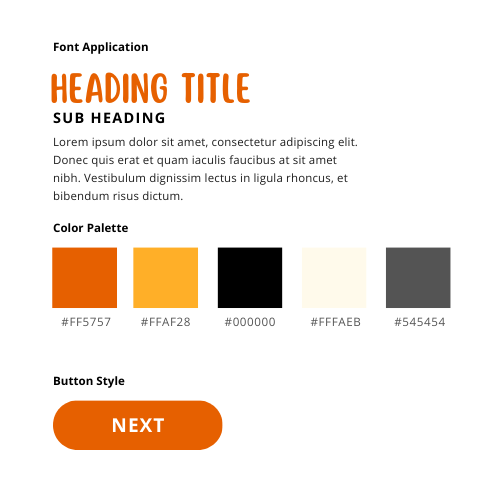
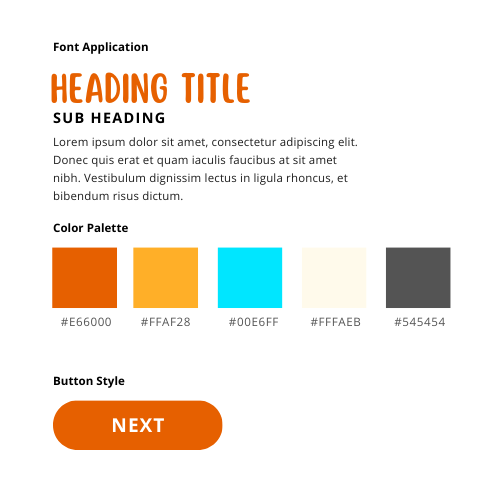
updated users forum and added new color codes picture

Changed region(s): [[0.42, 0.48, 0.57, 0.66], [0.12, 0.63, 0.24, 0.66]]

diff --git a/src/css/login.css b/src/css/login.css
@@ -9,7 +9,7 @@
 .login-h1-container {
     display: flex;
     justify-content: center;
-    gap: 20px;
+    gap: 30px;
     padding-top: 5rem;
 }
 
@@ -37,13 +37,19 @@
 }
 
 .password-input{
-    padding-bottom: 1rem;
-    border-radius: 30px;
+    padding-bottom: .3rem;
+    padding-top: .3rem;
+    padding-left: 8px;
+    border-radius: 10px;
+
 }
 
 .username-input{
-    padding-bottom: 1rem;
-    border-radius: 30px;
+    padding-top: .3rem;
+    padding-bottom: .3rem;
+    border-radius: 10px;
+    padding-left: 8px;
+    margin: 10px;
 }
 
 .button-container{
